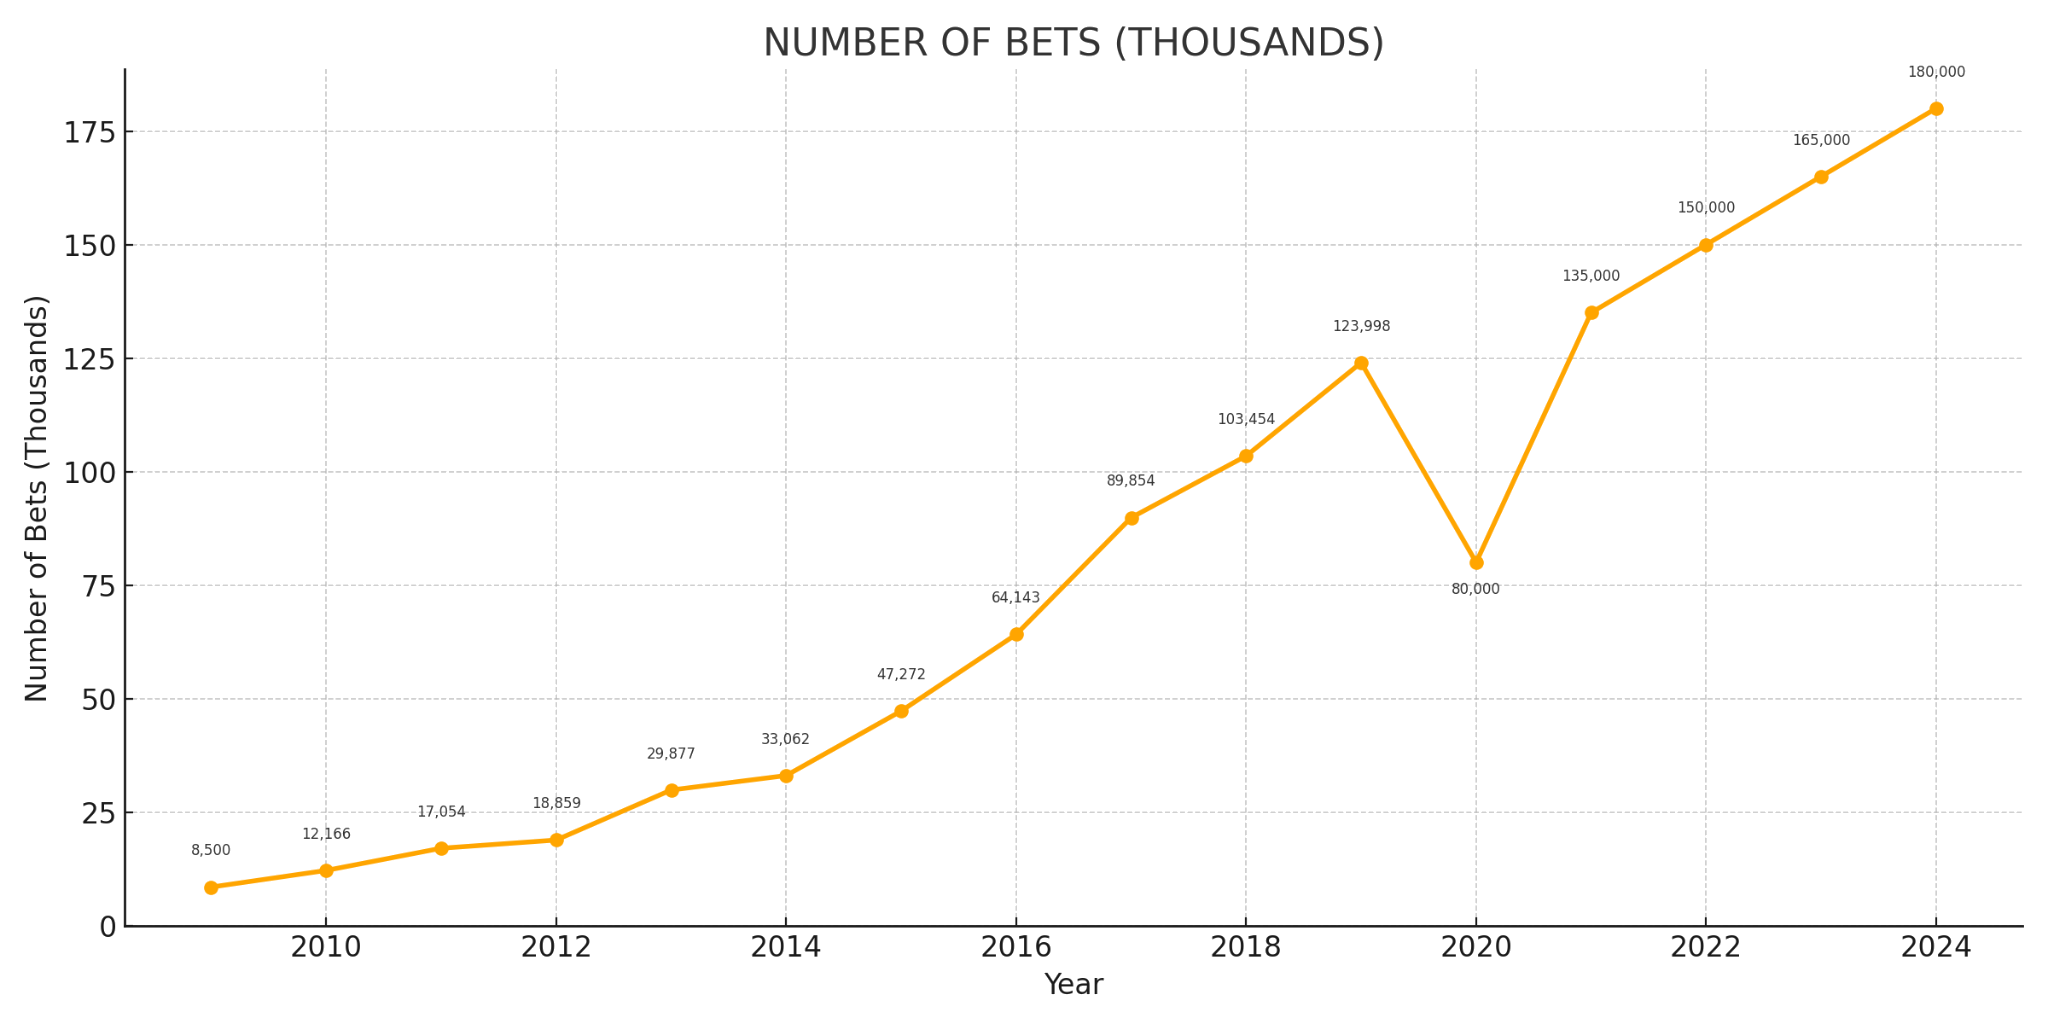
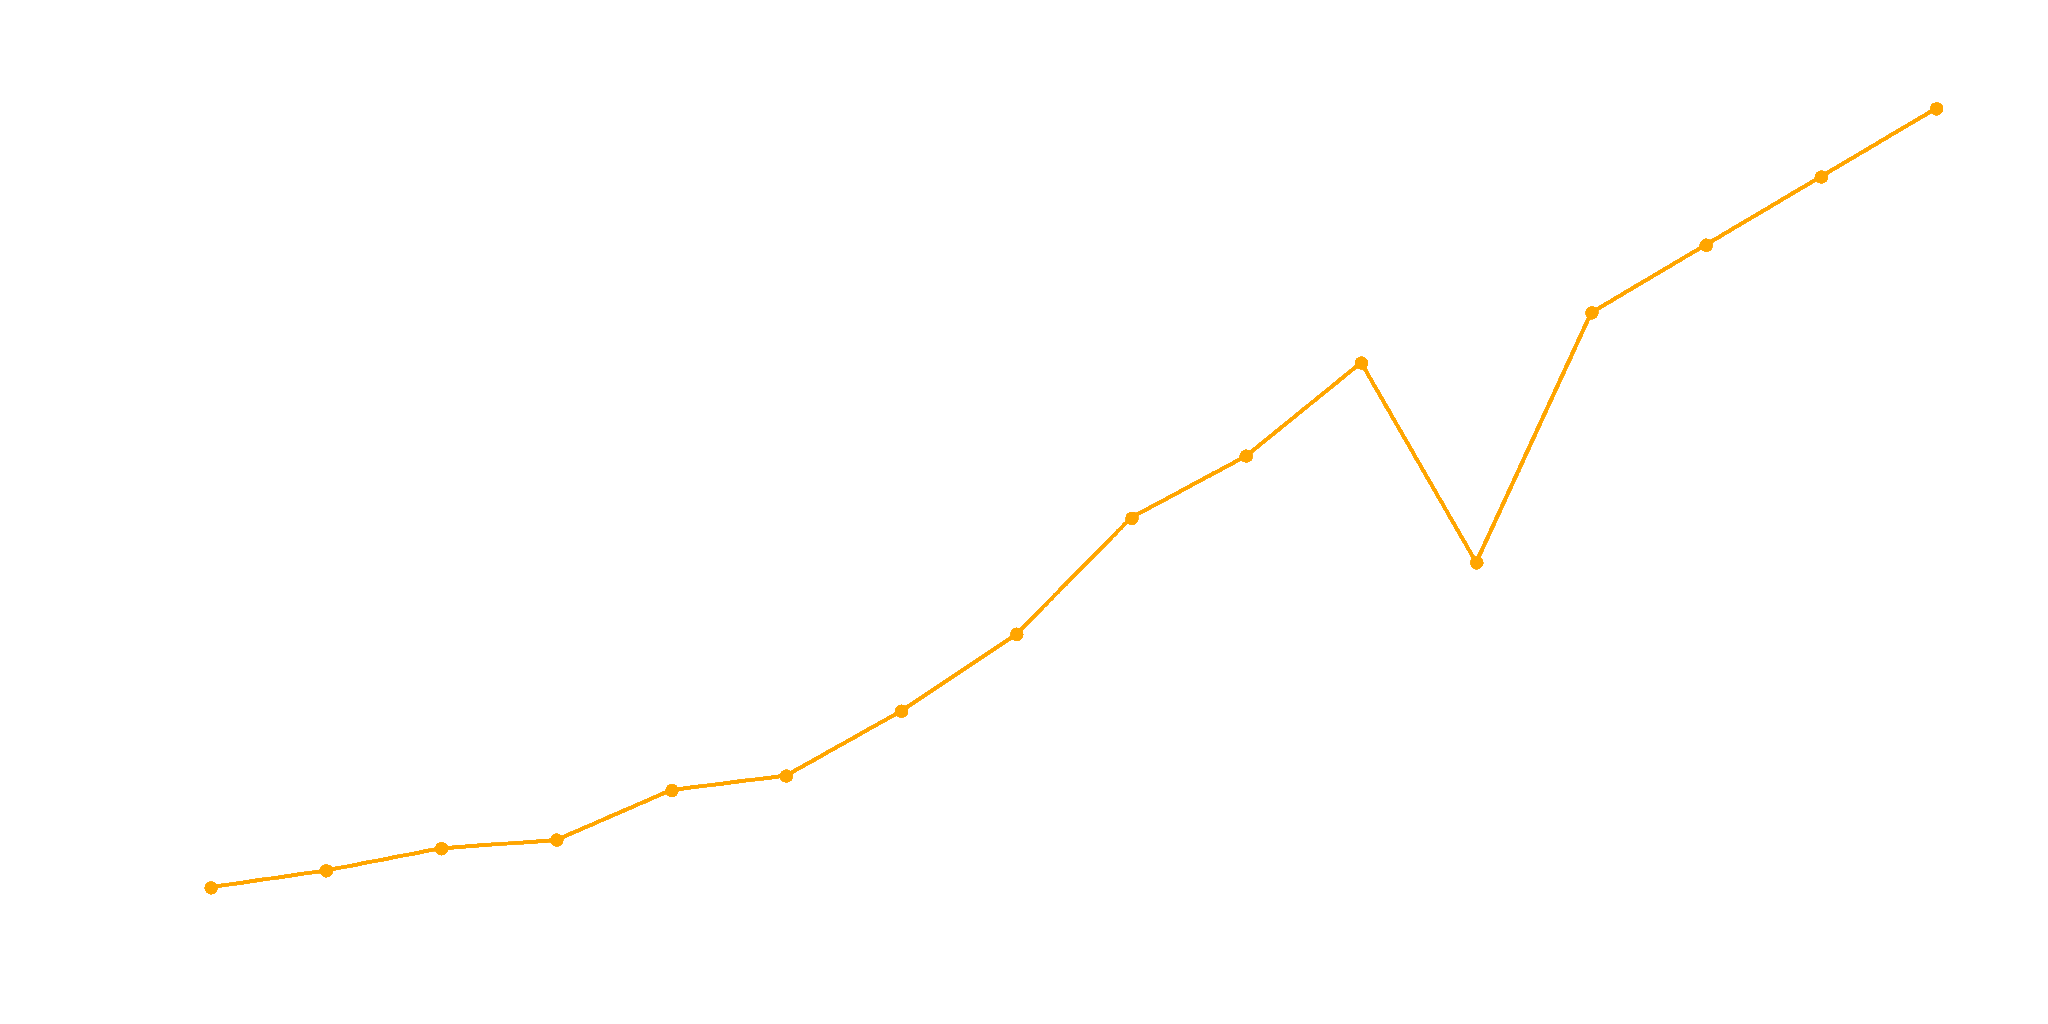
Added new graphs

diff --git a/index.html b/index.html
@@ -375,7 +375,7 @@
 
             <div class="row gy-xxl-5 gx-4 align-items-center">
                <div class="col-lg-6 d-grid order-lg-1 order-2">
-                  <div class="bg-white p-sm-4 p-3 rounded-5">
+                  <div class="p-sm-4 p-3 rounded-5">
                      <img
                         src="./img/turnover.png"
                         alt="Turnover Graph"
@@ -426,7 +426,7 @@
                </div>
 
                <div class="col-lg-6 d-grid order-lg-4">
-                  <div class="bg-white p-sm-4 p-3 rounded-5">
+                  <div class="p-sm-4 p-3 rounded-5">
                      <img
                         src="./img/bets.png"
                         alt="Bets Graph"
